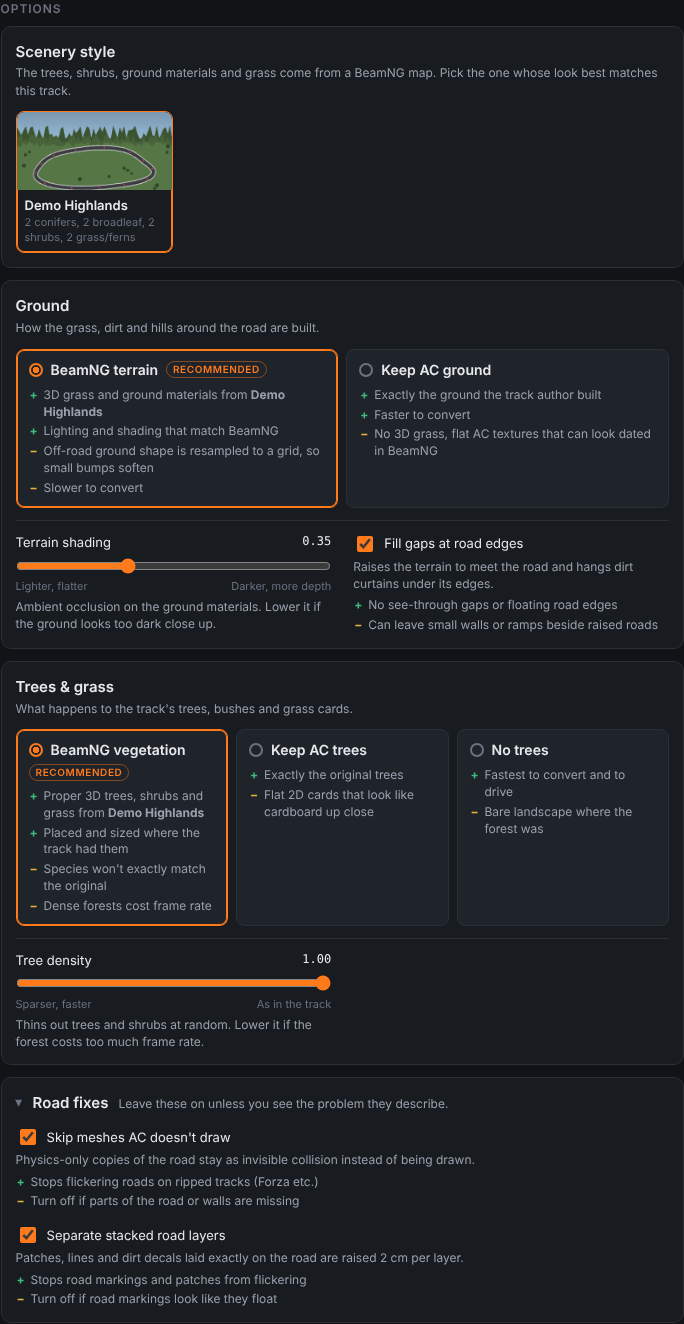
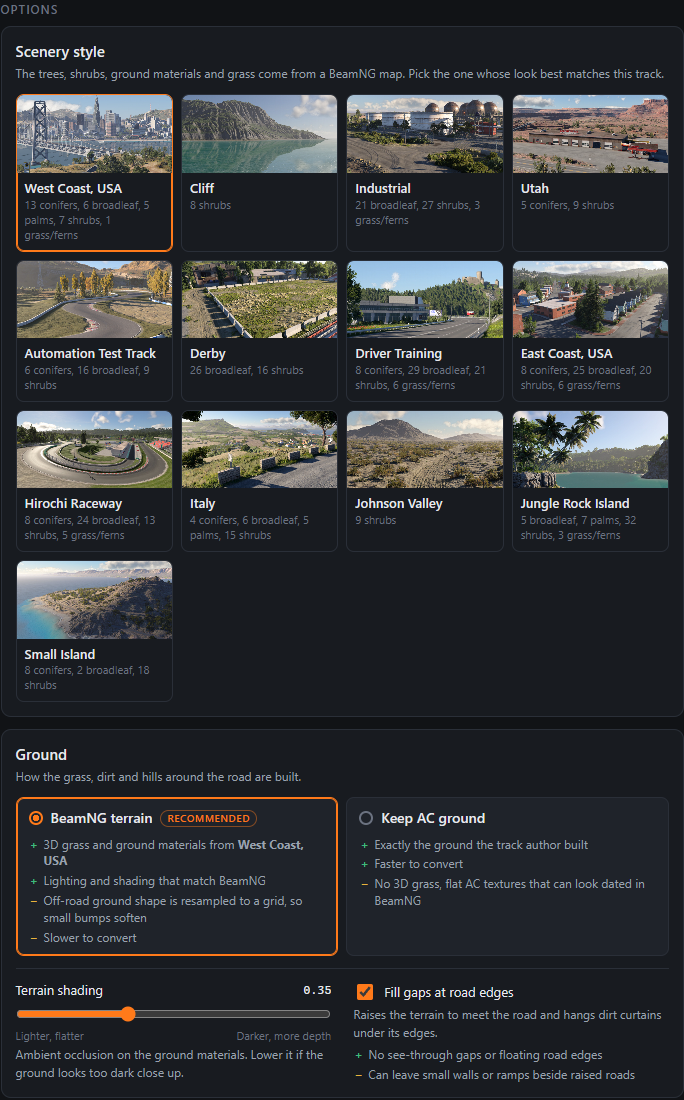
README: real app screenshots, shorter, focused on what the app does

Changed region(s): [[0.0, 0.0, 0.9825, 0.9891], [0.4912, 0.7418, 0.8596, 0.8655], [0.6754, 0.5564, 0.9211, 0.6491]]

diff --git a/README.md b/README.md
@@ -2,162 +2,76 @@
 
 # kn5port
 
-Convert Assetto Corsa tracks **that you own** into BeamNG.drive levels, on your own computer.
+Turn the Assetto Corsa tracks you already have into BeamNG.drive levels with one click. It can also convert
+Forza Horizon 1's Colorado map from your own copy of the game.
 
-kn5port contains no game content. It reads the track files already installed on your machine, reuses trees,
-grass and terrain materials from your own BeamNG.drive install, and writes the converted level into your local
-BeamNG mods folder. Like game recompilation projects, the repository is only the tool; you bring the data.
+![Your track library, with what kn5port found in the selected track](docs/screenshots/track.png)
 
-> **Personal use only.** Converted levels are derivative works of someone else's track. Never upload, share or
-> sell them, or post them in issues. Check the track's license first: some mods explicitly forbid conversions
-> to other games, and that applies to you even if you never share the result. kn5port only reads unprotected
-> `.kn5` files and does not attempt to get around encryption or other protection.
+## What you get
 
-## What it does
+- **Every track in one place.** kn5port finds Assetto Corsa and BeamNG through Steam, lists your tracks with
+  their previews, and marks each one as ready, partly readable or protected. It also shows which ones you've
+  already converted.
+- **A drivable BeamNG level.** Roads, kerbs and gravel keep their grip, so asphalt drives like asphalt and grass
+  like grass. Buildings and props come across, and every pit and start position becomes a spawn point.
+- **BeamNG scenery.** The ground becomes a real BeamNG terrain with 3D grass, and AC's flat tree cards become
+  BeamNG trees, sized to match the track's own. You pick which stock map the trees and ground come from:
+  West Coast USA, Italy, Utah, Jungle Rock Island and more.
+- **Checked before you drive.** After converting, kn5port checks the level, including that every AI racing line
+  has road under it.
 
-| AC | BeamNG |
-|---|---|
-| Road, kerb, gravel, wall meshes (physics surfaces) | Collision meshes with matching ground models (asphalt, gravel, grass, ...) |
-| Visual meshes (buildings, props, decals) | Static meshes, merged per material and split into 500 m cells |
-| Multilayer / grass / sand ground and distant terrain | A `TerrainBlock` (up to 4096²), fitted under the road, with stock terrain materials and GroundCover grass |
-| Card / mesh trees, bushes, grass cards | BeamNG forest items (redwoods, pines, oaks, shrubs, grass clumps) from a stock level, scaled to the AC heights |
-| Layouts, pit / start positions, previews, descriptions | Spawn points with previews and descriptions in the level picker |
+![Options: scenery style, ground and trees, each with its pros and cons](docs/screenshots/options.png)
 
-It also generates dirt skirts along road edges where the terrain can't follow them, keeps grass and trees off
-the road, and checks the result (including that every AC AI racing line has road under it).
+![A finished conversion, ready to load in BeamNG](docs/screenshots/converted.png)
 
-## Install
-
-**Windows app:** download `kn5port.exe` from the [releases](../../releases) page and run it. No install needed;
-it opens in its own window (uses the WebView2 runtime that ships with Windows 10/11).
-
-**From source** (Python 3.9+):
-
-```
-git clone https://github.com/romangarms/kn5port
-cd kn5port
-pip install .[app]
-```
-
-## Use
-
-### App
-
-![Picking a track: previews, convertibility status and what kn5port finds in it](docs/screenshots/track.png)
-
-![Conversion options, each with its benefits and trade-offs](docs/screenshots/options.png)
-
-![A finished conversion with the validation results](docs/screenshots/converted.png)
-
-<sub>The tracks in these screenshots are made-up demo data (`python packaging/screenshots.py` regenerates them).</sub>
-
-Run `kn5port.exe` (or `kn5port-app` from source). It:
-
-- finds Assetto Corsa and BeamNG through Steam, on any drive (Steam's location comes from the registry, then
-  every library in `libraryfolders.vdf`), and your BeamNG mods folder in `%LOCALAPPDATA%\BeamNG`; anything it
-  can't find, you pick once with a folder browser
-- lists your tracks with their previews and checks every model file in the background (structure, texture
-  signatures and sampled mesh data): **✓ ready**, **! partial** (unreadable files are skipped) or **🔒 protected**
-  (can't be converted). Results are cached, so later launches are instant
-- right-click a track to open its Assetto Corsa folder, or the converted BeamNG level / mod folder
-- marks tracks already converted into your mods folder
-- converts with one button, with options for the scenery style (which BeamNG map to borrow trees, ground and
-  grass from), ground (BeamNG terrain or AC's own), trees (BeamNG vegetation, AC's trees or none), tree density,
-  terrain shading and road fixes, each listing its benefits and trade-offs; then shows live progress, the validation results and a button to open the level folder
-
-`kn5port ui` serves the same interface in your browser instead (only on `127.0.0.1`, with a per-session
-access token).
-
-### Command line
-
-```
-kn5port inspect  "D:\Steam\steamapps\common\assettocorsa\content\tracks\<track>"
-kn5port convert  "D:\Steam\steamapps\common\assettocorsa\content\tracks\<track>"
-```
-
-`convert` finds your BeamNG install (via Steam) and mods folder automatically and writes
-`mods\unpacked\<track>`. **Fully restart BeamNG** before loading a converted level (it caches materials).
-
-Useful options:
-
-| option | |
-|---|---|
-| `--terrain off` | keep AC's ground as meshes instead of building a terrain (faster, no GroundCover) |
-| `--palette italy` | borrow trees, terrain materials and grass from another stock BeamNG map (see below) |
-| `--tree-density 0.5` | thin trees and shrubs for performance |
-| `--ao 0.2`, `--near-gain 1.3` | lighter terrain shading / brighter near-road ground |
-| `--no-forest` / `--keep-ac-trees` | skip tree replacement / keep AC's own tree meshes |
-| `--no-edge-fill` | don't raise the terrain to the road edges or hang curtains under them (if they show as walls/ramps) |
-| `--show-hidden` | also draw meshes AC hides; off by default because physics-only road copies on ripped (e.g. Forza) tracks flicker against the visual road |
-| `--layer-lift 0.02` | metres to raise each road layer (patch, line, dirt decal) that lies exactly on an earlier-drawn surface, so stacked layers don't flicker; `0` turns it off |
-| `--no-ground-layers` | give AC's blended (multilayer) ground one detail texture per material instead of the grass/dirt/rock texture of whichever layer dominates under each triangle |
-| `--profile my.json` | per-track overrides (see below) |
-| `--beamng`, `--mods`, `--out` | paths, if auto-detection fails |
-
-`kn5port validate <level folder> --ac-track <track>` re-checks a converted level.
+Magione (above) converts in under a minute; long roads take longer. **Fully restart BeamNG** afterwards (it caches materials), then
+pick the track from the level list.
 
 ## Forza Horizon 1
 
-The app's **Forza Horizon 1** tab converts Colorado from your own copy of Forza Horizon (2012, Xbox 360) into
-BeamNG levels: terrain, roads, buildings, plants, water, animated objects, lights, FH1's races as time trials,
-ambient sound, and FH1's radio as a separate mod. It works in `kn5port.exe`: the first time, **Set up** downloads
-a private Python 3.12 from python.org and numpy, scipy, numba and Pillow from PyPI (107 MB, every file pinned to
-a version and checked against a fixed SHA-256) into `%LOCALAPPDATA%\kn5port\runtime`, isolated from any other
-Python on your PC. From source, `pip install .[app,fh1]` and `kn5port-app` use your own Python instead.
+The **Forza Horizon 1** tab turns Colorado from your own copy of Forza Horizon (2012, Xbox 360) into a BeamNG
+level. You get the terrain, roads, buildings, plants, water, lights and ambient sound, with FH1's races as time
+trials. FH1's three radio stations, DJs included, come as a separate mod that works on any map.
 
-1. **Your copy**: pick a Games on Demand package (the `4D5309C9` title folder copied off an Xbox 360 drive,
-   from `Content\0000000000000000\4D5309C9`), a disc image (`.iso`), or extracted files (a folder holding
-   `default.xex` and `media\`). kn5port reads GOD packages and ISOs itself and copies out only what it needs,
-   about 4 GB. "How do I get these files?" in the app explains each.
-2. **What to build**: the whole map (16 km square, 3.3 GB, about 6 GB of RAM while building), or a 4 km
-   chunk around Red Rock or Clear Springs. Optionally the radio mod.
-3. **Checks** before it starts: Python (one-click setup), ffmpeg (for sound; one-click install through winget,
-   or from ffmpeg.org), disk space, memory, and that BeamNG is closed.
-4. **Build**: the first build reads the map's tables once (about 3 minutes); later builds skip that.
+![The Forza Horizon 1 tab](docs/screenshots/fh1.png)
 
-The work folder (`%LOCALAPPDATA%\kn5port\fh1`, about 7 GB) keeps the copied game files and tables between
-builds. The pipeline itself lives in [`fh1/`](fh1/README.md), with notes on every FH1 file format it reads.
-The same rules apply as for AC tracks: kn5port includes no game files, and converted levels are for you only.
+Point it at a Games on Demand folder, a disc image (`.iso`) or extracted files. Then build the whole 16 km
+map (about 10 minutes, 3.3 GB) or a quick 4 km chunk around Red Rock or Clear Springs. The first time, the app
+offers to download what it needs, about 100 MB. See [`fh1/`](fh1/README.md) for how it works.
 
-## Building the exe
+## Install
 
-On Windows: `powershell -ExecutionPolicy Bypass -File packaging\build.ps1` → `dist\kn5port.exe`.
-Pushing a tag like `v0.2.0` makes GitHub Actions run the tests, build the exe and attach it to a release
-([`.github/workflows/release.yml`](.github/workflows/release.yml)). The exe contains only kn5port and its
-Python libraries, never game content.
+Download `kn5port.exe` from [releases](../../releases) and run it. There's nothing to install.
 
-## Palettes
+From source (Python 3.9+): `pip install .[app]` (or `.[app,fh1]` for Forza Horizon), then run `kn5port-app`.
 
-Trees, terrain materials and grass come from a stock BeamNG map of your choice (West Coast USA by default).
-kn5port analyses the map from your own install: its forest items are sorted into conifers, broadleaf trees,
-palms, shrubs and grass by name, measured, and weighted by how often the map uses them; its terrain materials
-are matched to roles (forest floor, grass, dry grass, dirt, gravel, rock, sand). Each AC tree then gets the
-item closest to its own height. So Italy gives cypresses, pines, oaks and olives; East Coast USA Douglas firs
-and aspens; Jungle Rock Island palms and tropical trees; Utah junipers. West Coast USA uses a hand-tuned mapping.
+## Command line
 
-## Track profiles
+```
+kn5port inspect  <AC track folder>     # what kn5port sees in a track
+kn5port convert  <AC track folder>     # writes mods\unpacked\<track>
+kn5port ui                             # the app, in your browser
+```
 
-Everything track-specific (surface → ground model mapping, which meshes are terrain, which materials are
-vegetation and what species, which donor items replace them, terrain size and shading) lives in
-[`kn5port/profile.py`](kn5port/profile.py). The defaults work on most tracks; when one needs tweaks, put a JSON
-file with just the fields to change next to the track as `kn5port.json`, or pass `--profile`. See
-[`profiles/skyline_boulevard.json`](profiles/skyline_boulevard.json) for the format. Run `kn5port inspect` to
-see how a track is being interpreted before converting.
+`kn5port convert --help` lists every option: scenery style (`--palette italy`), tree density, keeping AC's ground
+or trees, and more. If a track needs tweaks, put a `kn5port.json` next to it
+([example](profiles/skyline_boulevard.json)).
 
 ## Known limits
 
-- Terrain is at most 4096² samples, so large maps get coarser terrain (e.g. 5 m for a 20 km road); road edges
-  are covered by generated skirts but may look slightly raised in places.
-- AC shaders (CSP GrassFX, multilayer detail, reflections) don't exist in BeamNG; materials are simplified.
-- Trees, terrain materials and grass come from a stock BeamNG level (West Coast USA by default), so the look is
-  BeamNG's, placed where the AC track had vegetation.
-- No AI paths, race timing or night lighting yet.
+- Big maps get coarser terrain, since BeamNG terrain tops out at 4096².
+- AC's special shaders (CSP grass, reflections) don't exist in BeamNG, so materials are simpler.
+- Trees and grass are BeamNG's own, so the species won't always match.
+- No AI paths, race timing or night lighting for AC tracks yet.
 
-## How it works
+## Personal use only
 
-See [docs/how-it-works.md](docs/how-it-works.md), and [docs/learnings.md](docs/learnings.md) for what broke
-along the way, how it was fixed and what's still open.
+kn5port contains no game content. It reads files you already have and writes the level into your own mods
+folder. Converted levels are derivative works, so don't share them, and check each track's license first.
+Protected or encrypted tracks are skipped.
 
-## License
+## More
 
-MIT for the code in this repository. It does not grant any rights to tracks you convert or to BeamNG content.
+- [How it works](docs/how-it-works.md) and [what broke along the way](docs/learnings.md)
+- Build the exe: `packaging\build.ps1`. Tagging `v*` publishes a release through GitHub Actions.
+- License: MIT for the code. It grants no rights to the tracks you convert or to BeamNG content.
